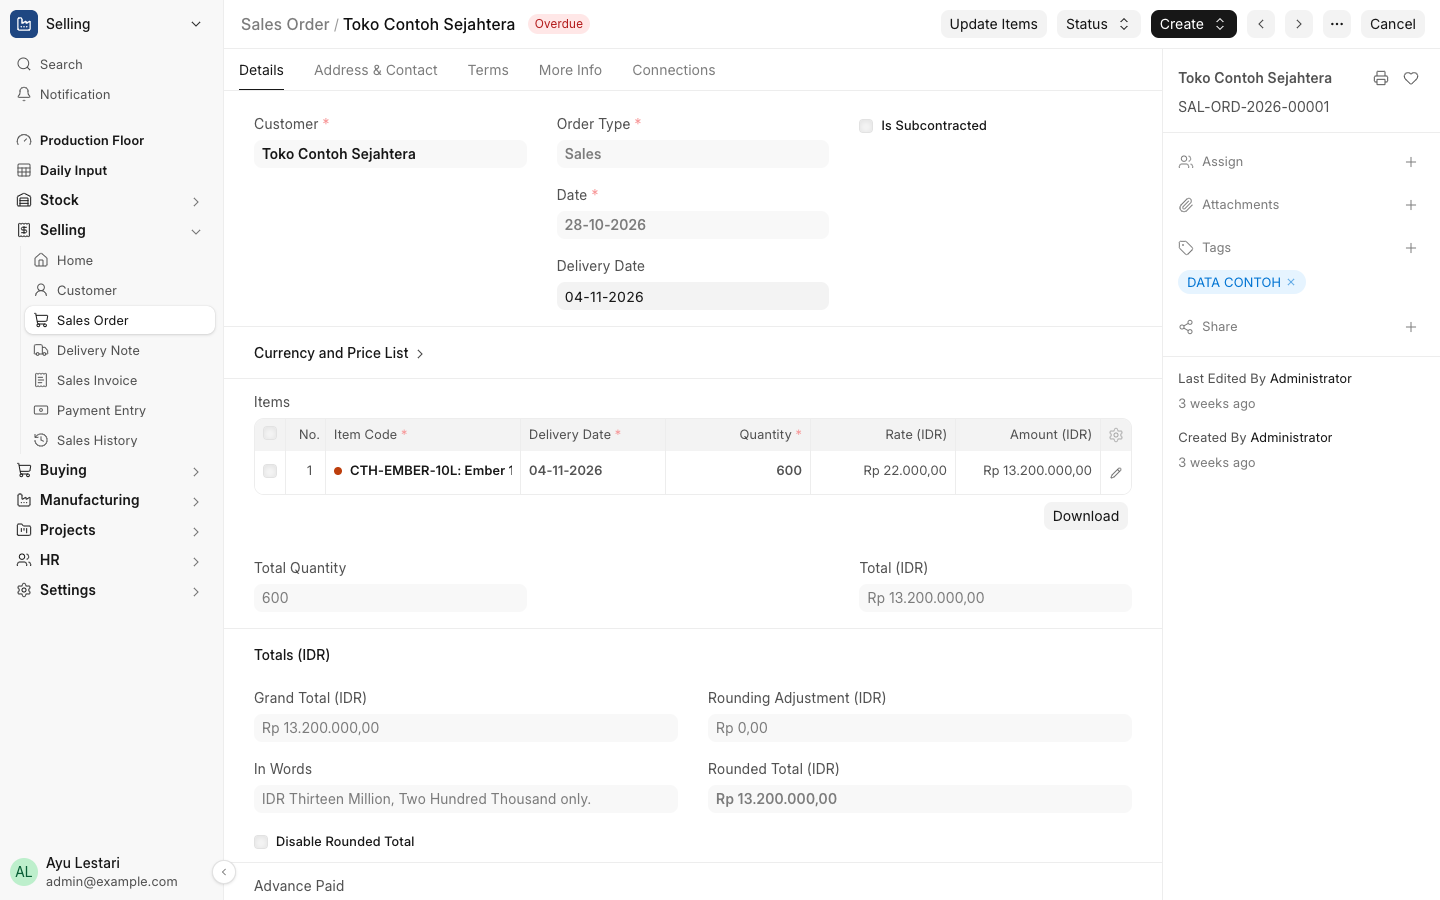
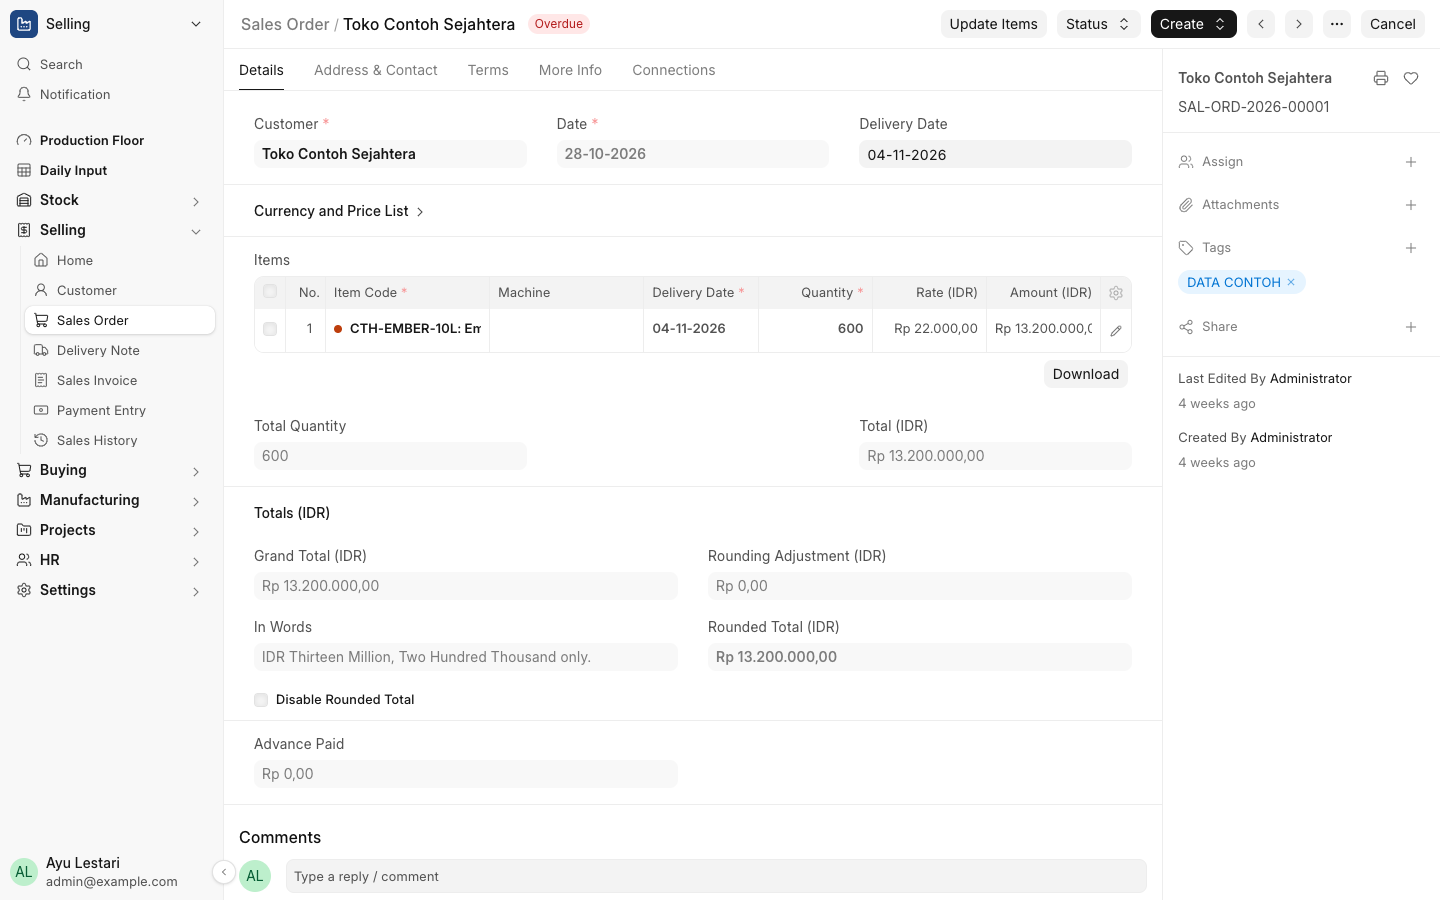
feat(tampilan): tidier forms, whole numbers, full text on hover, stock colours
From Abel's review of the Admin video (2026-11-27):
- setup.TATA_FORM hides unused standard fields and moves lone fields into the
  top rows (Sales Order, Delivery Note, invoices, Payment Entry, Purchase Order,
  Purchase Receipt, Stock Entry, Stock Reconciliation); its cepat key puts User's
  Set New Password in the New User dialog.
- angka.js shows a whole Float as 20.000, not 20.000,000; the report filter row
  says Search; judul_penuh.js gives a cut-off text its whole text on hover.
- Order Readiness colours its Stock cell; Home is Beranda in Indonesian.
- The Seal Cap machine list shows only priced machines; sample data gains a
  purchase. Guides and their pictures follow.

diff --git a/erp_internal/public/js/angka.js b/erp_internal/public/js/angka.js
@@ -1,0 +1,37 @@
+// Whole numbers without decimals (Abel 2026-11-27): with the site's 3-digit float precision a quantity of 20000
+// showed "20.000,000", read as twenty million. A Float input and a report cell now show a whole value as
+// "20.000"; a fraction keeps its decimals ("0,880"), and Currency fields are left as they are.
+
+if (frappe.ui.form.ControlFloat) {
+	const masukan = frappe.ui.form.ControlFloat.prototype.format_for_input;
+	frappe.ui.form.ControlFloat.prototype.format_for_input = function (value) {
+		if (this.df.fieldtype === "Float" && value !== null && value !== "" && flt(value) % 1 === 0) {
+			return format_number(value, this.get_number_format(), 0);
+		}
+		return masukan.call(this, value);
+	};
+}
+
+if (frappe.form?.formatters?.Float) {
+	// Query and report views pass always_show_decimals to line up the decimals of a column.
+	const tampil = frappe.form.formatters.Float;
+	frappe.form.formatters.Float = function (value, docfield, options, doc) {
+		if (options?.always_show_decimals) options = { ...options, always_show_decimals: false };
+		return tampil.call(this, value, docfield, options, doc);
+	};
+}
+
+// The per-column filter row under a report table's header is an empty grey box without a word; it says what it
+// is for now. Column 0 (the row number) has a disabled input and stays empty.
+const KATA_CARI = () => __("Search…");
+let tertunda = false;
+new MutationObserver(() => {
+	if (tertunda) return;
+	tertunda = true; // one scan per frame however many nodes changed
+	requestAnimationFrame(() => {
+		tertunda = false;
+		for (const el of document.querySelectorAll("input.dt-filter:not([placeholder]):not([disabled])")) {
+			el.placeholder = KATA_CARI();
+		}
+	});
+}).observe(document.documentElement, { childList: true, subtree: true });

diff --git a/erp_internal/public/js/erp_internal.bundle.js b/erp_internal/public/js/erp_internal.bundle.js
@@ -1,7 +1,7 @@
 // Desk-wide behaviour of erp_internal (app_include_js): full width by default, the language switch, the menu
 // (menu_samping.js), the app version in the Settings dialog (versi.js) and the "attach the real document" note
 // on forms (lampiran.js), the missing data notes with their fix links (kelengkapan.js) and the module home
-// cards' icon and line (pintasan.js).
+// cards' icon and line (pintasan.js), whole numbers without decimals and the report filter row's "Search…" (angka.js), the whole text of a cut-off "..." on hover (judul_penuh.js), and no Email buttons while there is no outgoing email (surel.js).
 //
 // The language switch itself is two user-menu rows from `standard_navbar_items` in hooks.py, shown by
 // `frappe.boot.lang`; their action calls `erp_internal.ganti_bahasa` below.
@@ -11,6 +11,9 @@ import "./versi";
 import "./lampiran";
 import "./kelengkapan";
 import "./pintasan";
+import "./angka";
+import "./judul_penuh";
+import "./surel"; // no outgoing email: no Email buttons (erp_internal/surel.py)
 
 frappe.provide("erp_internal");
 

diff --git a/erp_internal/public/css/erp_internal.css b/erp_internal/public/css/erp_internal.css
@@ -414,3 +414,19 @@ a.erp-perbaiki {
 		padding: 12px 14px;
 	}
 }
+
+/* A report's row number column: the datatable sizes it from the row count in the body font plus 22 px, but the
+   cell has 8 px padding on each side in a 14 px font, so from row 10 the number shows as "4..." (Abel 2026-11-26).
+   Less padding there gives the digits the room. */
+.page-container[data-page-route="query-report"] .dt-cell__content--col-0,
+.page-container[data-page-route="query-report"] .dt-cell__content--header-0 {
+	padding-left: 3px;
+	padding-right: 3px;
+	text-overflow: clip;
+}
+
+/* Order Readiness' Stock cell (Abel 2026-11-27): red at 0 or less, orange under Safety Stock, green otherwise. */
+.erp-stok { font-weight: 600; }
+.erp-stok-red { color: var(--red-600); }
+.erp-stok-orange { color: var(--orange-600); }
+.erp-stok-green { color: var(--green-600); }

diff --git a/erp_internal/planning/report/order_readiness/order_readiness.js b/erp_internal/planning/report/order_readiness/order_readiness.js
@@ -62,6 +62,12 @@ frappe.query_reports["Order Readiness"] = {
 			const warna = WARNA_STATUS[data.status] || "gray";
 			return `<span class="indicator-pill ${warna}">${frappe.utils.escape_html(label_status(data.status))}</span>`;
 		}
-		return default_formatter(value, row, column, data);
+		const isi = default_formatter(value, row, column, data);
+		if (column.fieldname === "stok" && data) {
+			// Abel 2026-11-27: red at 0 or less, orange under the item's Safety Stock, green otherwise.
+			const warna = data.stok <= 0 ? "red" : data.stok < data.safety ? "orange" : "green";
+			return `<span class="erp-stok erp-stok-${warna}">${isi}</span>`;
+		}
+		return isi;
 	},
 };

diff --git a/erp_internal/public/js/judul_penuh.js b/erp_internal/public/js/judul_penuh.js
@@ -1,0 +1,17 @@
+// A text cut to "..." (a narrow column header, a list cell) shows its whole text on hover (Abel 2026-11-27).
+// Only for an element that really overflows and has no title of its own; set on the first hover, so nothing runs
+// while the page draws.
+document.addEventListener(
+	"mouseover",
+	(e) => {
+		for (let el = e.target; el && el !== document.body; el = el.parentElement) {
+			if (el.hasAttribute?.("title")) return;
+			if (el.scrollWidth > el.clientWidth + 1 && getComputedStyle(el).textOverflow === "ellipsis") {
+				const teks = el.textContent.trim();
+				if (teks) el.title = teks;
+				return;
+			}
+		}
+	},
+	{ passive: true },
+);

diff --git a/erp_internal/public/js/sales_order.js b/erp_internal/public/js/sales_order.js
@@ -17,6 +17,15 @@ function harga_mesin(frm, cdt, cdn) {
 			});
 	}, 800);
 }
+// The line's Machine list: only the machines its item is priced on (`seal_cap.cari_mesin`), else every machine.
+frappe.ui.form.on("Sales Order", {
+	setup(frm) {
+		frm.set_query("erp_mesin", "items", (doc, cdt, cdn) => ({
+			query: "erp_internal.seal_cap.cari_mesin",
+			filters: { item: locals[cdt][cdn].item_code || "" },
+		}));
+	},
+});
 frappe.ui.form.on("Sales Order Item", {
 	erp_mesin: harga_mesin,
 	item_code: harga_mesin,

diff --git a/erp_internal/setup.py b/erp_internal/setup.py
@@ -319,12 +319,61 @@ BAWAAN_WO = {"skip_transfer": 1}
 # gives the Manufacturing roles that level on the parent DocType.
 HARGA_TERSEMBUNYI = {"Work Order Item": ("rate", "amount")}
 
+# Tidier forms (Abel 2026-11-27): per DocType, standard fields we never use are hidden (Property Setter `hidden`),
+# and a field moved to sit right after another (`pindah`: field -> the field it follows), written as the DocType's
+# `field_order` like Customize Form does. Fields ERPNext adds later still find their place by `insert_after`.
+# `cepat`: a field shown in the New ... dialog (quick entry: Property Setters `hidden` 0, `allow_in_quick_entry` 1).
+TATA_FORM = {
+	# One row: Customer | Date | Delivery Date. Order Type is always Sales; subcontracting is locked (MODUL_MATI).
+	"Sales Order": {
+		"sembunyi": ("order_type", "is_subcontracted"),
+		"pindah": {"delivery_date": "column_break1"},
+	},
+	# The rest (Abel 2026-11-27): a lone field moved up into the top row, unused features hidden (no POS, debit
+	# notes, tax withholding, transit warehouses, putaway, inspection or alternative items; IDR only).
+	"Delivery Note": {"pindah": {"set_warehouse": "column_break_10"}},
+	"Sales Invoice": {
+		"sembunyi": ("is_pos", "is_debit_note", "apply_tds"),
+		"pindah": {"due_date": "column_break_14"},
+	},
+	"Payment Entry": {
+		"sembunyi": ("book_advance_payments_in_separate_party_account", "apply_tds"),
+		"pindah": {"party_type": "payment_type", "party": "party_type", "party_name": "party"},
+	},
+	"Purchase Order": {
+		"sembunyi": ("is_subcontracted",),
+		"pindah": {"schedule_date": "column_break1", "set_warehouse": "schedule_date"},
+	},
+	"Purchase Receipt": {
+		"sembunyi": ("apply_putaway_rule", "is_subcontracted"),
+		"pindah": {"set_warehouse": "column_break_12"},
+	},
+	"Purchase Invoice": {
+		"sembunyi": ("apply_tds", "is_subcontracted"),
+		"pindah": {"bill_no": "supplier", "bill_date": "bill_no"},
+	},
+	"Stock Entry": {
+		"sembunyi": ("add_to_transit", "apply_putaway_rule", "inspection_required"),
+		"pindah": {"from_warehouse": "stock_entry_type", "to_warehouse": "posting_time"},
+	},
+	"Stock Reconciliation": {"pindah": {"set_warehouse": "purpose"}},
+	"Work Order": {"sembunyi": ("allow_alternative_item",)},
+	"Item": {"sembunyi": ("allow_alternative_item",)},
+	"Customer": {"sembunyi": ("default_currency",)},
+	"Supplier": {"sembunyi": ("default_currency",)},
+	"Employee": {"sembunyi": ("middle_name", "salutation")},
+	# The New User dialog asks for the password (Abel 2026-11-27). The form keeps it in its hidden Change Password
+	# section; pengguna.cek_user still refuses it on a Super Admin's account.
+	"User": {"cepat": ("new_password",)},
+}
+
 
 def pastikan_setup() -> None:
 	"""Bring the site to the state this app expects. Idempotent; safe before the setup wizard."""
 	_pengaturan()
 	_field_aktif()
 	_impor_boleh()
+	_tata_form()
 	_halaman_lama()
 	tampilan.pastikan_peran()  # the Admin role, before IZIN_TAMBAHAN names it
 	if not frappe.is_setup_complete():
@@ -486,6 +535,31 @@ def _gudang_pabrik(company: str) -> None:
 		# A warehouse with stock history stays; disabling it would hide stock that exists.
 		if wh not in milik and not frappe.db.exists("Stock Ledger Entry", {"warehouse": wh}):
 			frappe.db.set_value("Warehouse", wh, "disabled", 1)
+
+
+def _tata_form() -> None:
+	"""Apply `TATA_FORM`: hide the unused fields and move the listed ones, writing only what differs."""
+	from frappe.custom.doctype.property_setter.property_setter import make_property_setter
+
+	for doctype, tata in TATA_FORM.items():
+		meta = frappe.get_meta(doctype)
+		for field in tata.get("sembunyi", ()):
+			if not meta.get_field(field).hidden:
+				make_property_setter(doctype, field, "hidden", 1, "Check", validate_fields_for_doctype=False)
+		for field in tata.get("cepat", ()):
+			df = meta.get_field(field)
+			for prop, nilai in (("hidden", 0), ("allow_in_quick_entry", 1)):
+				if df.get(prop) != nilai:
+					make_property_setter(
+						doctype, field, prop, nilai, "Check", validate_fields_for_doctype=False
+					)
+		urutan = [f.fieldname for f in meta.fields]
+		for field, setelah in tata.get("pindah", {}).items():
+			urutan.remove(field)
+			urutan.insert(urutan.index(setelah) + 1, field)
+		if urutan != [f.fieldname for f in meta.fields]:
+			make_property_setter(doctype, None, "field_order", json.dumps(urutan), "Data", for_doctype=True)
+		frappe.clear_cache(doctype=doctype)
 
 
 def _gudang_kirim() -> None:

diff --git a/erp_internal/contoh.py b/erp_internal/contoh.py
@@ -143,6 +143,9 @@ TEKNISI = {"Shift 1": ("Yudi", 0), "Shift 2": ("Fadli", 3)}
 KE_PLUIT = ("CTH-EMBER-10L", 120)
 KIRIM_PLUIT = ("CONTOH-SJ-1", "Toko Contoh Sejahtera", "CTH-EMBER-10L", 60)
 CATATAN_PLUIT = f"{TANDA}: stok ke Gudang Pluit"
+# A purchase: (supplier, item, qty in its stock UOM, days from today to delivery), ordered and then received
+# in full, both with their paper attached (the Admin guide video opens the receipt).
+BELI = ("PT Contoh Biji Plastik", "CTH-BIJI-PP", 500, 3)
 # Expenses (spec section 5): (category, amount, repeat, days from the first production day or None for the
 # first day of this month, attached).
 BIAYA = (
@@ -199,6 +202,8 @@ DIBUAT = (
 	"Item Price",
 	"Delivery Note",
 	"Expense Entry",
+	"Purchase Order",
+	"Purchase Receipt",
 )
 
 
@@ -218,6 +223,7 @@ def buat_contoh() -> dict[str, int]:
 	_jual_beli(company, hari_ini)
 	_produksi(company, hari_ini)
 	_pluit(company)
+	_beli(company, hari_ini)
 	_biaya(company, hari_ini)
 	pengguna = _pengguna(company, sandi)
 	_kantor(company, pengguna, hari_ini)
@@ -357,6 +363,44 @@ def _pluit(company: str) -> None:
 		utils.lampirkan("Delivery Note", dn.name)  # the signed copy comes back after the delivery
 		ada = dn.name
 	tandai("Delivery Note", ada)
+
+
+def _beli(company: str, hari_ini: date) -> None:
+	"""One submitted Purchase Order (`BELI`) and its Purchase Receipt, each found by its DATA CONTOH tag."""
+	from erp_internal.penjualan import HARGA_BAHAN
+
+	pemasok, kode, qty, hari = BELI
+	gudang = setup.gudang(company, setup.GUDANG_GRUP[BARANG[kode][1]])
+	tag = {"_user_tags": ("like", f"%{TANDA}%"), "company": company, "docstatus": 1}
+	po = frappe.db.get_value("Purchase Order", tag)
+	if not po:
+		doc = frappe.get_doc(
+			{
+				"doctype": "Purchase Order",
+				"company": company,
+				"supplier": pemasok,
+				"transaction_date": hari_ini,
+				"schedule_date": add_days(hari_ini, hari),
+				"currency": "IDR",
+				"buying_price_list": HARGA_BAHAN,
+				"set_warehouse": gudang,
+				"items": [{"item_code": kode, "qty": qty, "rate": BARANG[kode][4], "warehouse": gudang}],
+			}
+		).insert(ignore_permissions=True)
+		utils.lampirkan("Purchase Order", doc.name)
+		doc.submit()
+		po = doc.name
+	tandai("Purchase Order", po)
+
+	pr = frappe.db.get_value("Purchase Receipt", tag)
+	if not pr:
+		from erpnext.buying.doctype.purchase_order.purchase_order import make_purchase_receipt
+
+		doc = make_purchase_receipt(po).insert(ignore_permissions=True)
+		utils.lampirkan("Purchase Receipt", doc.name)
+		doc.submit()
+		pr = doc.name
+	tandai("Purchase Receipt", pr)
 
 
 def _biaya(company: str, hari_ini: date) -> None:

diff --git a/erp_internal/tampilan.py b/erp_internal/tampilan.py
@@ -63,6 +63,15 @@ IKON_RUMAH = "house"  # each module's home row
 # module's home and route (`/desk/manufacturing/production-floor`) are unchanged.
 MENU_ATAS = ("production-floor", "daily-input")
 
+# DocType of ours that no sidebar lists → the shells its form opens under, first one the user has wins. Without it
+# Frappe's map (`canonical_shell`) sent the Production Entry form to Build for Produksi and to Accounts for Admin
+# (Abel 2026-11-26, seen in the guide video). Set in the boot by `menu_samping`; the menus stay as they are.
+SHELL_DOKUMEN = {
+	"Production Entry": ("Manufacturing",),
+	"Reject Reason": ("Setup", "Manufacturing"),
+	"Expense Category": ("Buying",),
+}
+
 # Sidebar → the `link_to` values kept, in this order, after the module's home Workspace (always first,
 # so the module opens on it). A link the app's sidebar lacks is added; every other item is hidden. Only what the
 # guides' flows use (docs/panduan/): each module home shows the same links as shortcuts (`PINTASAN`,
@@ -784,6 +793,12 @@ def menu_samping(bootinfo) -> None:
 			for i in (sidebars.get(m["shell"]) or {}).get("items") or []
 		}
 		bootinfo.erp_menu_atas = [t for t in MENU_ATAS if t in ada]
+		per_doctype = (bootinfo.get("canonical_shell") or {}).get("DocType")
+		if per_doctype is not None:
+			for doctype, shells in SHELL_DOKUMEN.items():
+				shell = next((s for s in shells if s in sidebars), None)
+				if shell:
+					per_doctype[doctype] = shell
 		# The home cards' icon (the link's sidebar icon, so card and sidebar match; a link can sit in several
 		# sidebars, Super Admin also sees Planning's bare one, so the first icon found wins) and line (KETERANGAN).
 		kartu = {}

diff --git a/erp_internal/seal_cap.py b/erp_internal/seal_cap.py
@@ -14,7 +14,13 @@ from frappe import _
 from frappe.utils import flt
 
 from erp_internal import master, penjualan, setup
-from erp_internal.planning.kapasitas import ATRIBUT_WARNA, GRUP_KEMASAN, TEMPLATE_PIGMEN, buat_bom_kapasitas
+from erp_internal.planning.kapasitas import (
+	ATRIBUT_WARNA,
+	GRUP_KEMASAN,
+	TEMPLATE_PIGMEN,
+	_mesin_aktif_bernomor,
+	buat_bom_kapasitas,
+)
 from erp_internal.setup import SATUAN_KEMASAN
 
 TEMPLATE = "SEAL-CAP"
@@ -168,6 +174,18 @@ def _tabel(item_code: str) -> dict | None:
 def harga(item_code: str, mesin: str) -> float | None:
 	"""The price per piece of `item_code` on `mesin`, or None (the Sales Order form sets it on the line)."""
 	return (_tabel(item_code) or {}).get(mesin)
+
+
+@frappe.whitelist()
+@frappe.validate_and_sanitize_search_inputs
+def cari_mesin(doctype, txt, searchfield, start, page_len, filters) -> list[tuple]:
+	"""Link query of a Sales Order line's machine: for an item priced by machine only the enabled machines of its
+	`HARGA_MESIN` table (any other is refused on save), else every enabled numbered machine."""
+	semua = _mesin_aktif_bernomor()
+	tabel = _tabel((frappe.parse_json(filters) or {}).get("item") or "")
+	nama = [m for m in semua if m in tabel] if tabel else semua
+	cari = (txt or "").lower()
+	return [(m,) for m in nama if cari in m.lower()][int(start or 0) :][: int(page_len or 20)]
 
 
 def _harga_baris(d) -> float | None:

diff --git a/erp_internal/tests/test_alur_jual_beli.py b/erp_internal/tests/test_alur_jual_beli.py
@@ -125,6 +125,25 @@ class TestAlurJualBeli(IntegrationTestCase):
 		dn.insert()
 		self.assertEqual({i.warehouse for i in dn.items}, {dn.set_warehouse})
 
+	def test_tata_form(self):
+		# Abel 2026-11-27: unused fields hidden, moved fields right after their target; a rerun writes nothing.
+		from erp_internal.setup import TATA_FORM, _tata_form
+
+		_tata_form()
+		jumlah = frappe.db.count("Property Setter")
+		_tata_form()
+		self.assertEqual(frappe.db.count("Property Setter"), jumlah)
+		for doctype, tata in TATA_FORM.items():
+			meta = frappe.get_meta(doctype)
+			for field in tata.get("sembunyi", ()):
+				self.assertTrue(meta.get_field(field).hidden, f"{doctype}.{field}")
+			for field in tata.get("cepat", ()):
+				df = meta.get_field(field)
+				self.assertEqual((df.hidden, df.allow_in_quick_entry), (0, 1), f"{doctype}.{field}")
+			urutan = [f.fieldname for f in meta.fields]
+			for field, setelah in tata.get("pindah", {}).items():
+				self.assertEqual(urutan.index(field), urutan.index(setelah) + 1, f"{doctype}.{field}")
+
 	def test_alur_pembelian(self):
 		sebelum = stok(self.biji, self.bahan)
 		po = frappe.get_doc(

diff --git a/erp_internal/tests/test_seal_cap.py b/erp_internal/tests/test_seal_cap.py
@@ -195,6 +195,17 @@ class TestSealCap(IntegrationTestCase):
 		self.assertIsNone(seal_cap.harga(varian("MHG"), "Mesin 02"))
 		self.assertIsNone(seal_cap.harga("_UJI-SC-LAIN", "Mesin 04"))
 
+	def test_cari_mesin(self):
+		# The Sales Order line's machine list: a Seal Cap only on its priced machines, another item on any.
+		def cari(item, txt=""):
+			return [m for (m,) in seal_cap.cari_mesin("Workstation", txt, "name", 0, 50, {"item": item})]
+
+		self.assertEqual(cari(varian("MHG")), ["Mesin 04", "Mesin 14"])
+		self.assertEqual(cari(varian("MHG"), "14"), ["Mesin 14"])
+		lain = cari(buat_barang("_UJI-SC-LAIN", "Barang Jadi"))
+		self.assertIn("Mesin 02", lain)
+		self.assertGreater(len(lain), 2)
+
 	def test_tanpa_mesin_ditolak(self):
 		with self.assertRaisesRegex(frappe.ValidationError, "pick the machine"):
 			self.pesanan(varian("MHG"), None)
